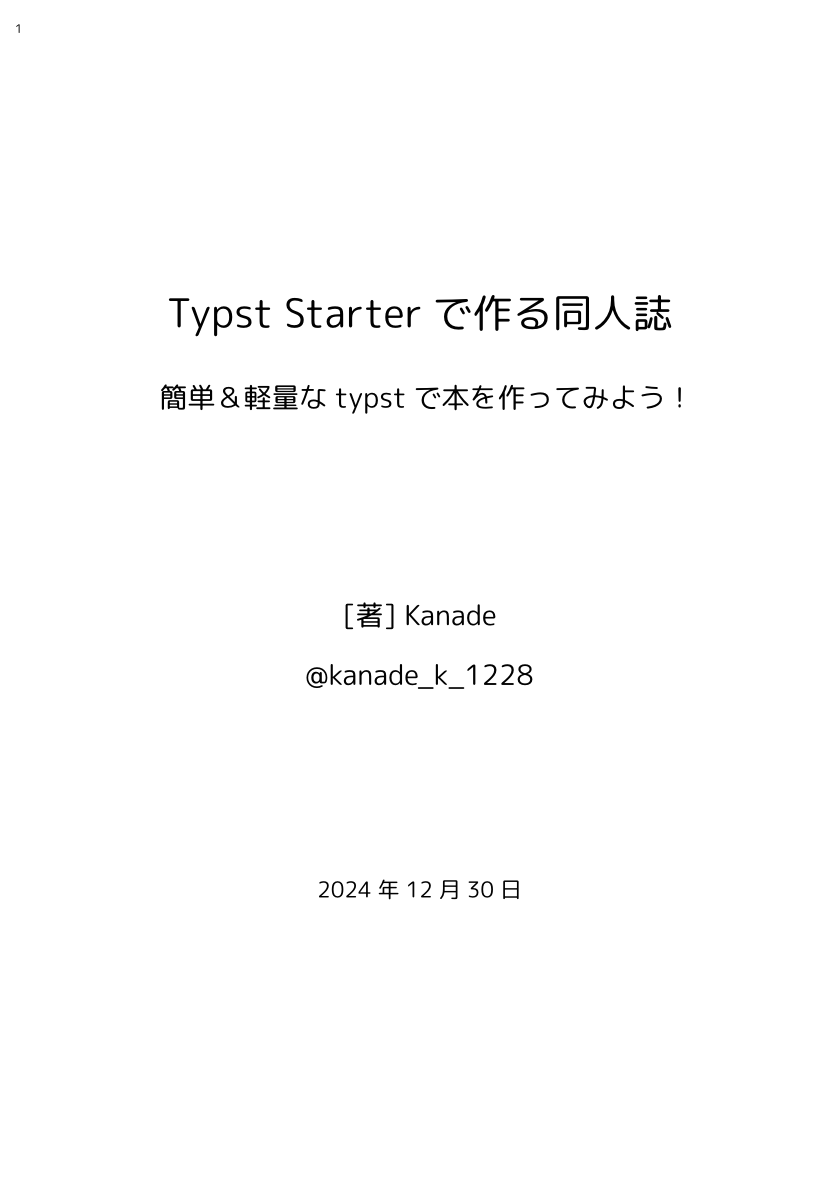
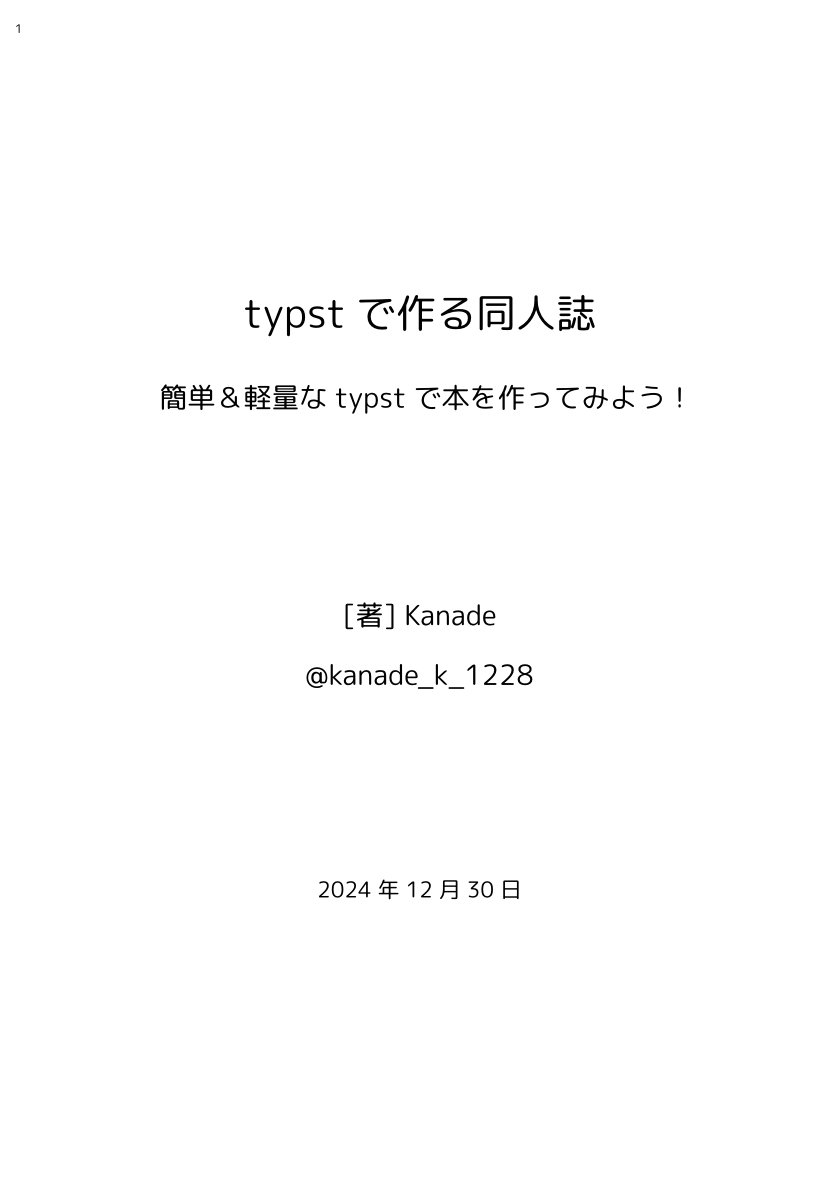
rename

Changed region(s): [[0.1859, 0.2485, 0.8057, 0.2796]]

diff --git a/README.md b/README.md
@@ -6,4 +6,4 @@
 | :------------------: | :------------------: |
 | ![](png/main-3.png)  | ![](png/main-4.png)  |
 | ![](png/main-5.png)  | ![](png/main-6.png)  |
-| ![](png/main-14.png) | ![](png/main-15.png) |
+| ![](png/main-15.png) | ![](png/main-16.png) |
